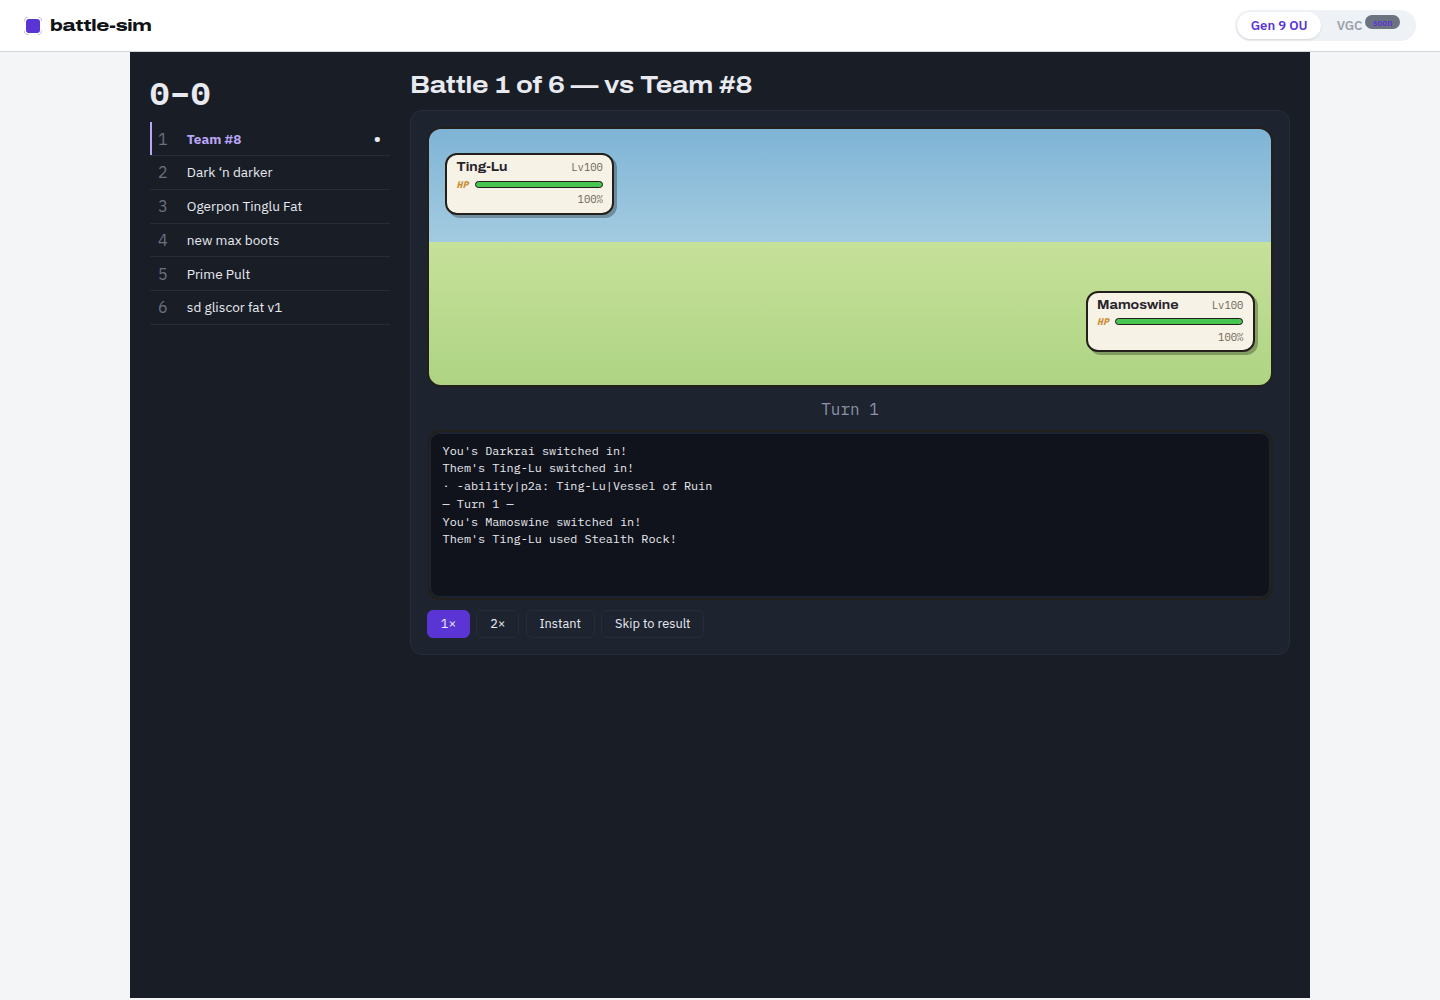
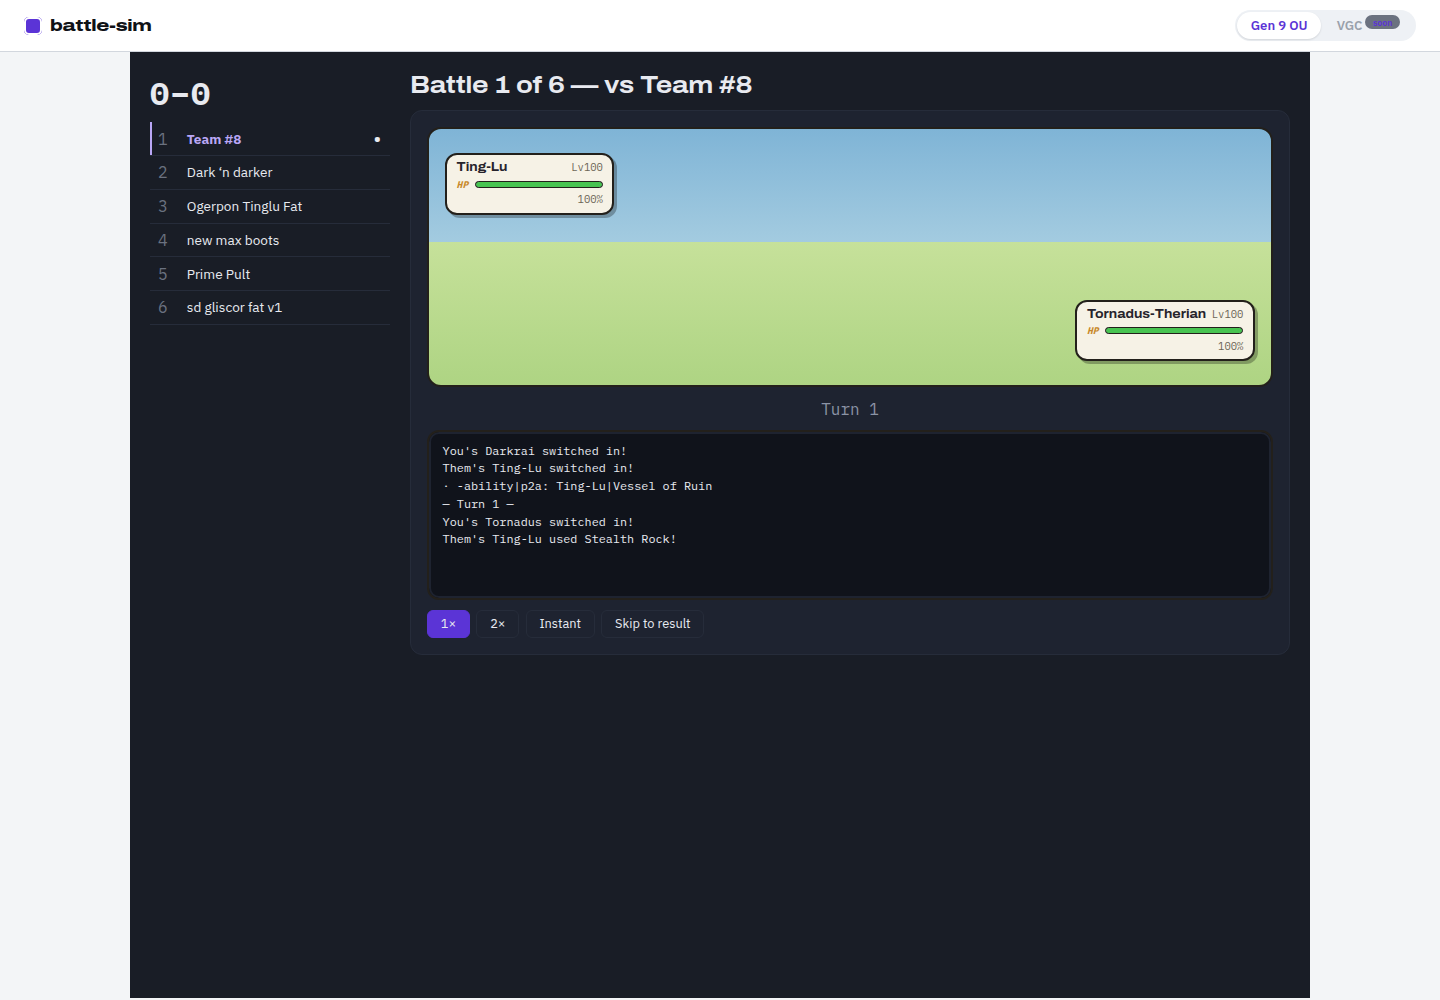
Refresh sim/e2e artifacts (tera A/B 50/8 result, latest shots)
Claude-Session: https://claude.ai/code/session_018qcDd7quUciNzxNH5KJVx9

Changed region(s): [[0.7188, 0.279, 0.875, 0.372], [0.3438, 0.496, 0.4375, 0.527]]

diff --git a/logs/gauntlet-sim.md b/logs/gauntlet-sim.md
@@ -1,6 +1,6 @@
 # Gauntlet simulation — Can you 6-0?
 
-12 runs/mode · player search = **strong** · draft = **greedy** · easy ramp = **smooth** · 3316s total.
+20 runs/mode · player search = **fast** · draft = **greedy** · easy ramp = **cliff** · tera eval = **{"teraAvailable":50,"teraDecayFaints":8}** · 114s total.
 
 _Auto-drafted teams (greedy); real search + the shipped Easy ramp. FAST understates the STRONG default — read the shape, not the absolute win rate._
 
@@ -8,28 +8,24 @@ _Auto-drafted teams (greedy); real search + the shipped Easy ramp. FAST understa
 
 | mode | flawless | reached rung (survival) | mean battles/run |
 |---|---|---|---|
-| easy | **17%** (2/12) | 100% · 92% · 92% · 83% · 75% · 50% | 4.9 |
-| normal | **8%** (1/12) | 100% · 83% · 42% · 25% · 17% · 17% | 2.8 |
+| normal | **0%** (0/20) | 100% · 30% · 10% · 5% · 5% · 0% | 1.5 |
 
 ## Per-rung win rate (of runs that reached it)
 
 | mode | rung1 | rung2 | rung3 | rung4 | rung5 | rung6 |
 |---|---|---|---|---|---|---|
-| easy | 92% (11/12) | 100% (11/11) | 91% (10/11) | 90% (9/10) | 67% (6/9) | 33% (2/6) |
-| normal | 83% (10/12) | 50% (5/10) | 60% (3/5) | 67% (2/3) | 100% (2/2) | 50% (1/2) |
+| normal | 30% (6/20) | 33% (2/6) | 50% (1/2) | 100% (1/1) | 0% (0/1) | — |
 
 ## Where runs died
 
 | mode | lost r1 | r2 | r3 | r4 | r5 | r6 | flawless |
 |---|---|---|---|---|---|---|---|
-| easy | 1 | 0 | 1 | 1 | 3 | 4 | 2 |
-| normal | 2 | 5 | 2 | 1 | 0 | 1 | 1 |
+| normal | 14 | 4 | 1 | 0 | 1 | 0 | 0 |
 
 ## Tera timing (player, p1)
 
 | mode | Tera'd in | mean Tera turn | mean % through battle |
 |---|---|---|---|
-| easy | 100% of battles (59/59) | turn 4.1 | 15% |
-| normal | 100% of battles (34/34) | turn 4.9 | 13% |
+| normal | 100% of battles (30/30) | turn 12.8 | 42% |
 
-mean turns/battle: easy 32 · normal 39
+mean turns/battle: normal 33

diff --git a/logs/tera-ab.md b/logs/tera-ab.md
@@ -1,10 +1,10 @@
 # Tera eval A/B — NEW (decaying option value) vs OLD (flat +10)
 
-2 battles · config=fast · 9s
+60 battles · config=fast · 367s
 
 ## Strength
 
-- NEW wins: **1** · OLD wins: **1** · draws: 0
+- NEW wins: **30** · OLD wins: **30** · draws: 0
 - NEW win rate (of decided): **50%**
 - 50% = neutral (change doesn't hurt); >50% = the new Tera timing is stronger.
 
@@ -12,5 +12,5 @@
 
 | eval | Tera'd in | mean Tera turn |
 |---|---|---|
-| NEW (decaying) | 100% | 3.0 |
-| OLD (flat +10) | 100% | 4.0 |
+| NEW (decaying) | 100% | 10.6 |
+| OLD (flat +10) | 100% | 6.2 |